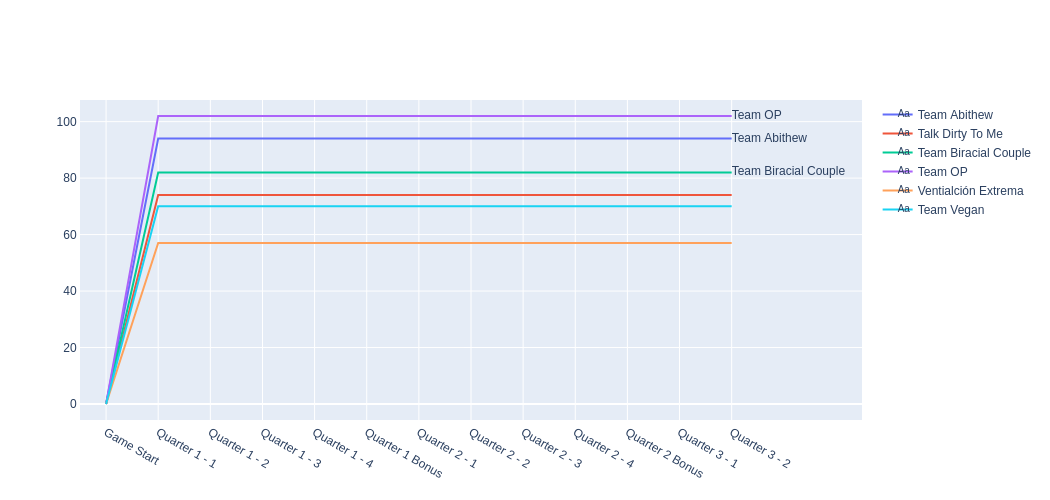
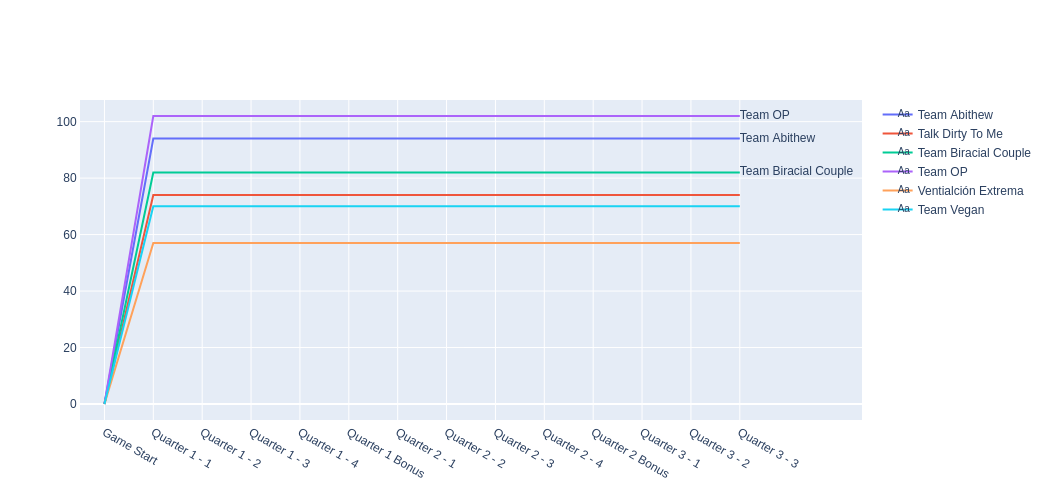
Live Edits

diff --git a/Trivia/Live_Tracker.html b/Trivia/Live_Tracker.html
@@ -13,7 +13,7 @@
         document.getElementById("title").innerHTML = "Trivia Live Scoring - " + m + "/" + d + "/" + y;
         </script>
         <div><img src = "img/fig1.png"></div>
-        <div>3 people (50%) got question 3-2 correct.</div>
+        <div>4 people (67%) got question 3-3 correct.</div>
         
         </body>
         </html>
